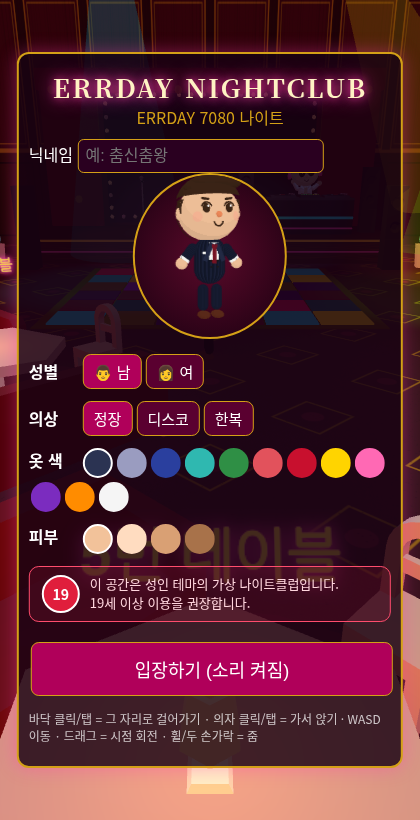
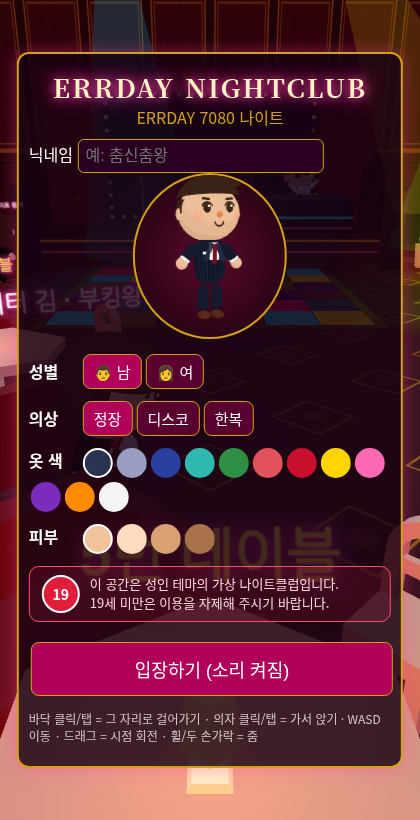
Entry notice wording

diff --git a/public/index.html b/public/index.html
@@ -21,7 +21,7 @@
  <div class="row"><b>의상</b><span id="styles"></span></div>
  <div class="row"><b>옷 색</b><span id="sw"></span></div>
  <div class="row"><b>피부</b><span id="skins"></span></div>
- <div id="adultNote" style="display:flex;gap:10px;align-items:center;margin:10px auto;max-width:340px;padding:8px 12px;border:1px solid #ff4d6d;border-radius:10px;background:rgba(255,40,80,.12);color:#ffd6de;font-size:13px;line-height:1.45;text-align:left"><span style="flex:none;width:34px;height:34px;border-radius:50%;background:#e01e3c;color:#fff;font-weight:800;display:flex;align-items:center;justify-content:center;font-size:14px;border:2px solid #fff">19</span><span>이 공간은 성인 테마의 가상 나이트클럽입니다.<br>19세 이상 이용을 권장합니다.</span></div>
+ <div id="adultNote" style="display:flex;gap:10px;align-items:center;margin:10px auto;max-width:340px;padding:8px 12px;border:1px solid #ff4d6d;border-radius:10px;background:rgba(255,40,80,.12);color:#ffd6de;font-size:13px;line-height:1.45;text-align:left"><span style="flex:none;width:34px;height:34px;border-radius:50%;background:#e01e3c;color:#fff;font-weight:800;display:flex;align-items:center;justify-content:center;font-size:14px;border:2px solid #fff">19</span><span>이 공간은 성인 테마의 가상 나이트클럽입니다.<br>19세 미만은 이용을 자제해 주시기 바랍니다.</span></div>
  <button id="enter" class="big" disabled>입장하기 (소리 켜짐)</button>
  <p class="hint">바닥 클릭/탭 = 그 자리로 걸어가기 · 의자 클릭/탭 = 가서 앉기 · WASD 이동 · 드래그 = 시점 회전 · 휠/두 손가락 = 줌</p>
 </div>
